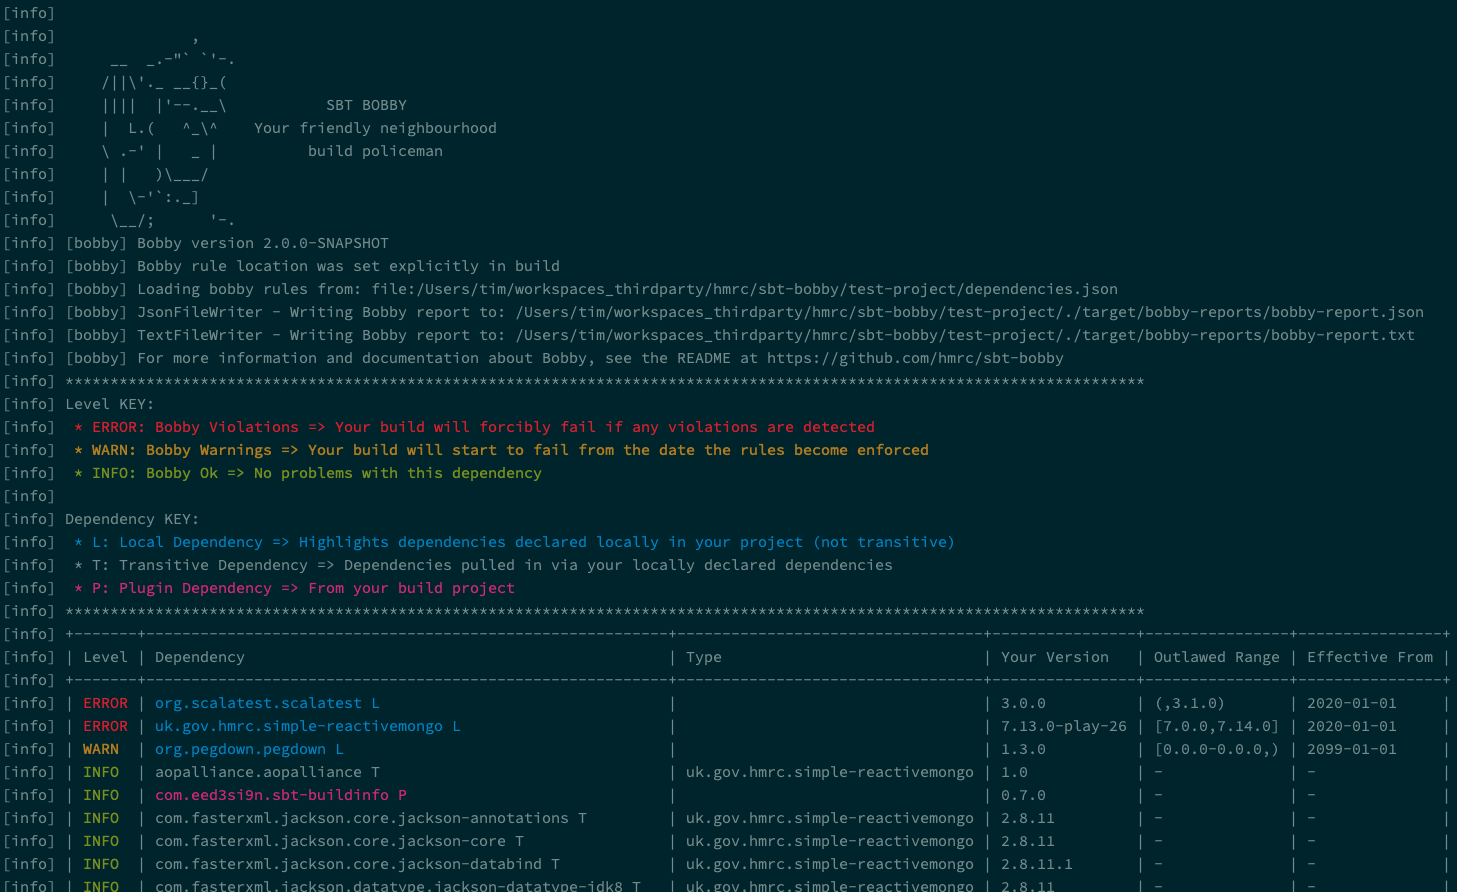
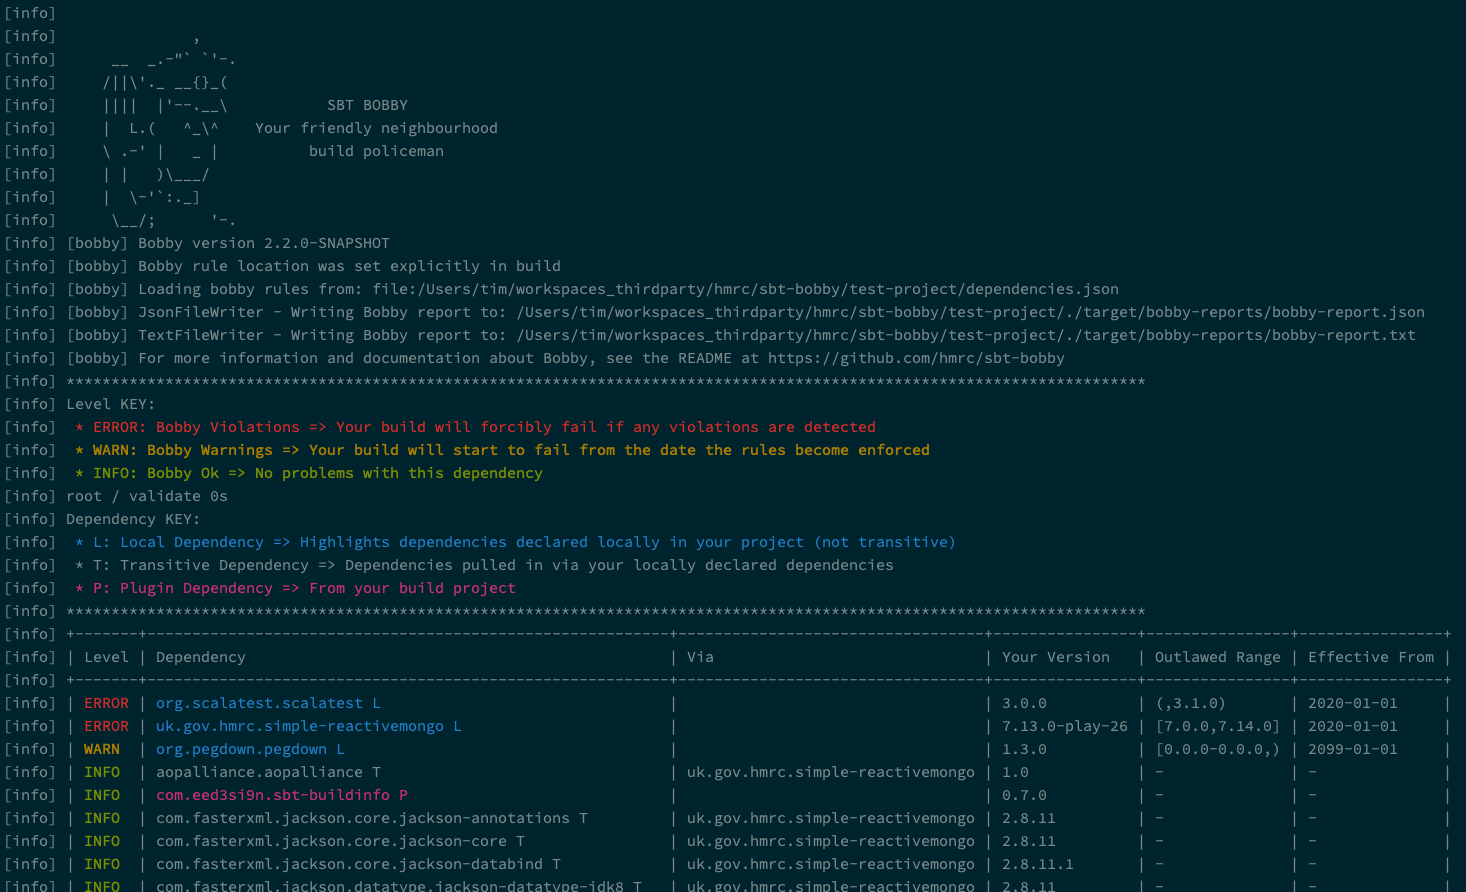
BDOG-554 correct header name for compact view

diff --git a/README.md b/README.md
@@ -214,7 +214,7 @@ An example output looks like this (taken from the `test-project` in this repo, s
 [info]  * P: Plugin Dependency => From your build project
 [info] ************************************************************************************************************************
 [info] +-------+----------------------------------------------------------+----------------------------------+----------------+----------------+----------------+
-[info] | Level | Dependency                                               | Type                             | Your Version   | Outlawed Range | Effective From |
+[info] | Level | Dependency                                               | Via                              | Your Version   | Outlawed Range | Effective From |
 [info] +-------+----------------------------------------------------------+----------------------------------+----------------+----------------+----------------+
 [info] | ERROR | org.scalatest.scalatest L                                |                                  | 3.0.0          | (,3.1.0)       | 2020-01-01     |
 [info] | ERROR | uk.gov.hmrc.simple-reactivemongo L                       |                                  | 7.13.0-play-26 | [7.0.0,7.14.0] | 2020-01-01     |
